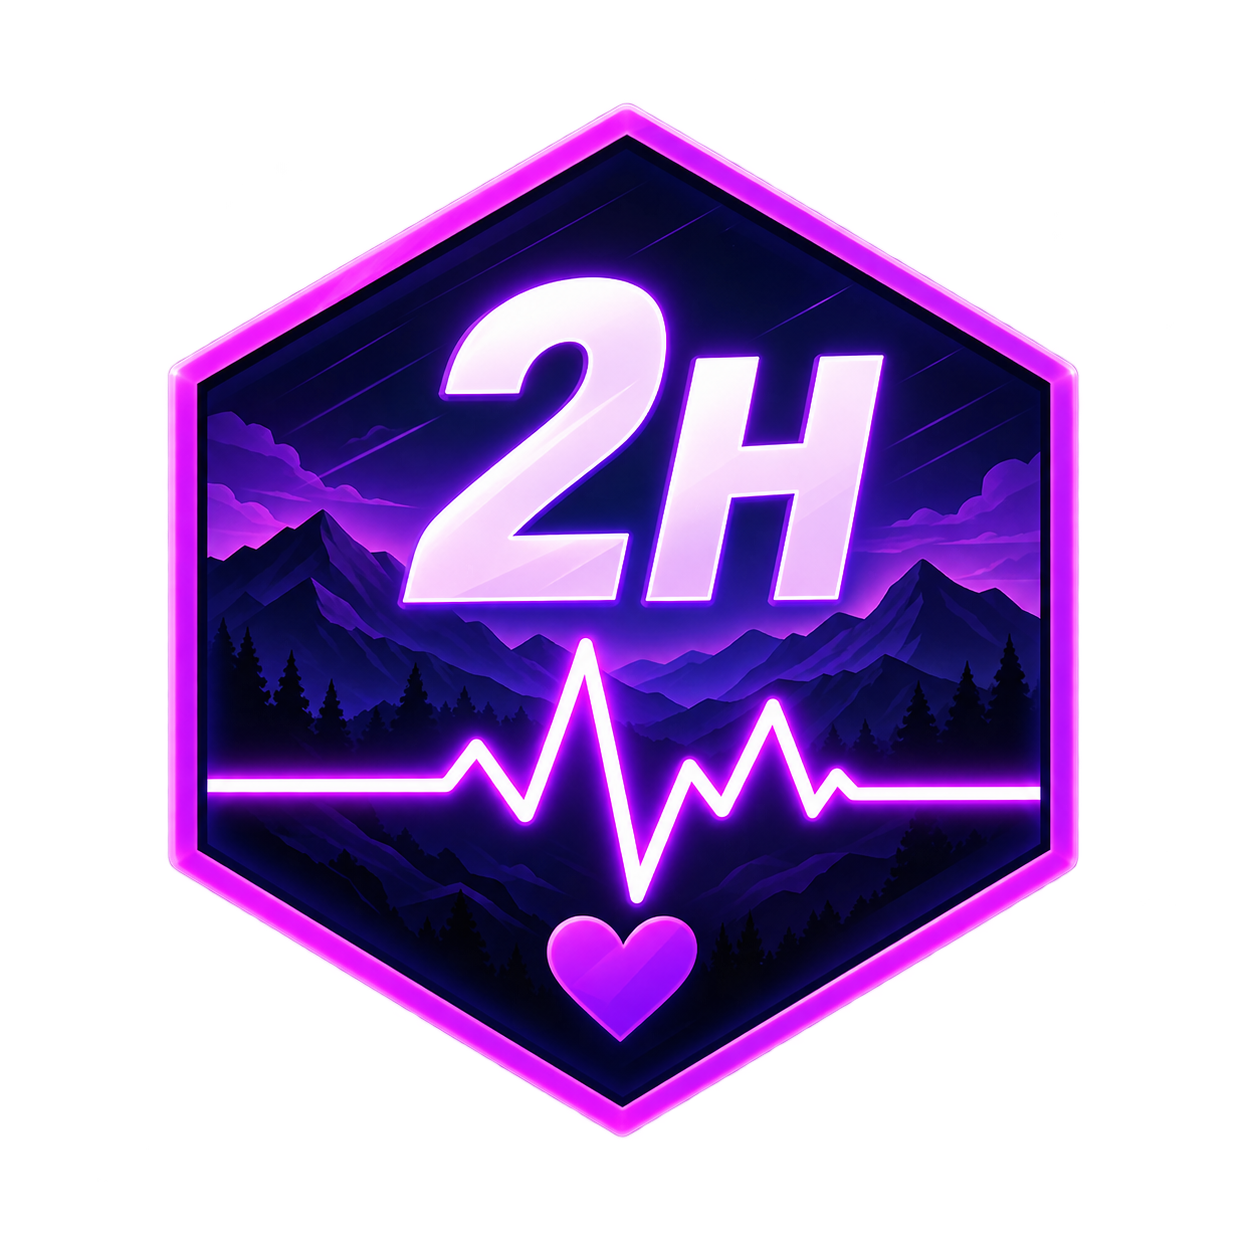
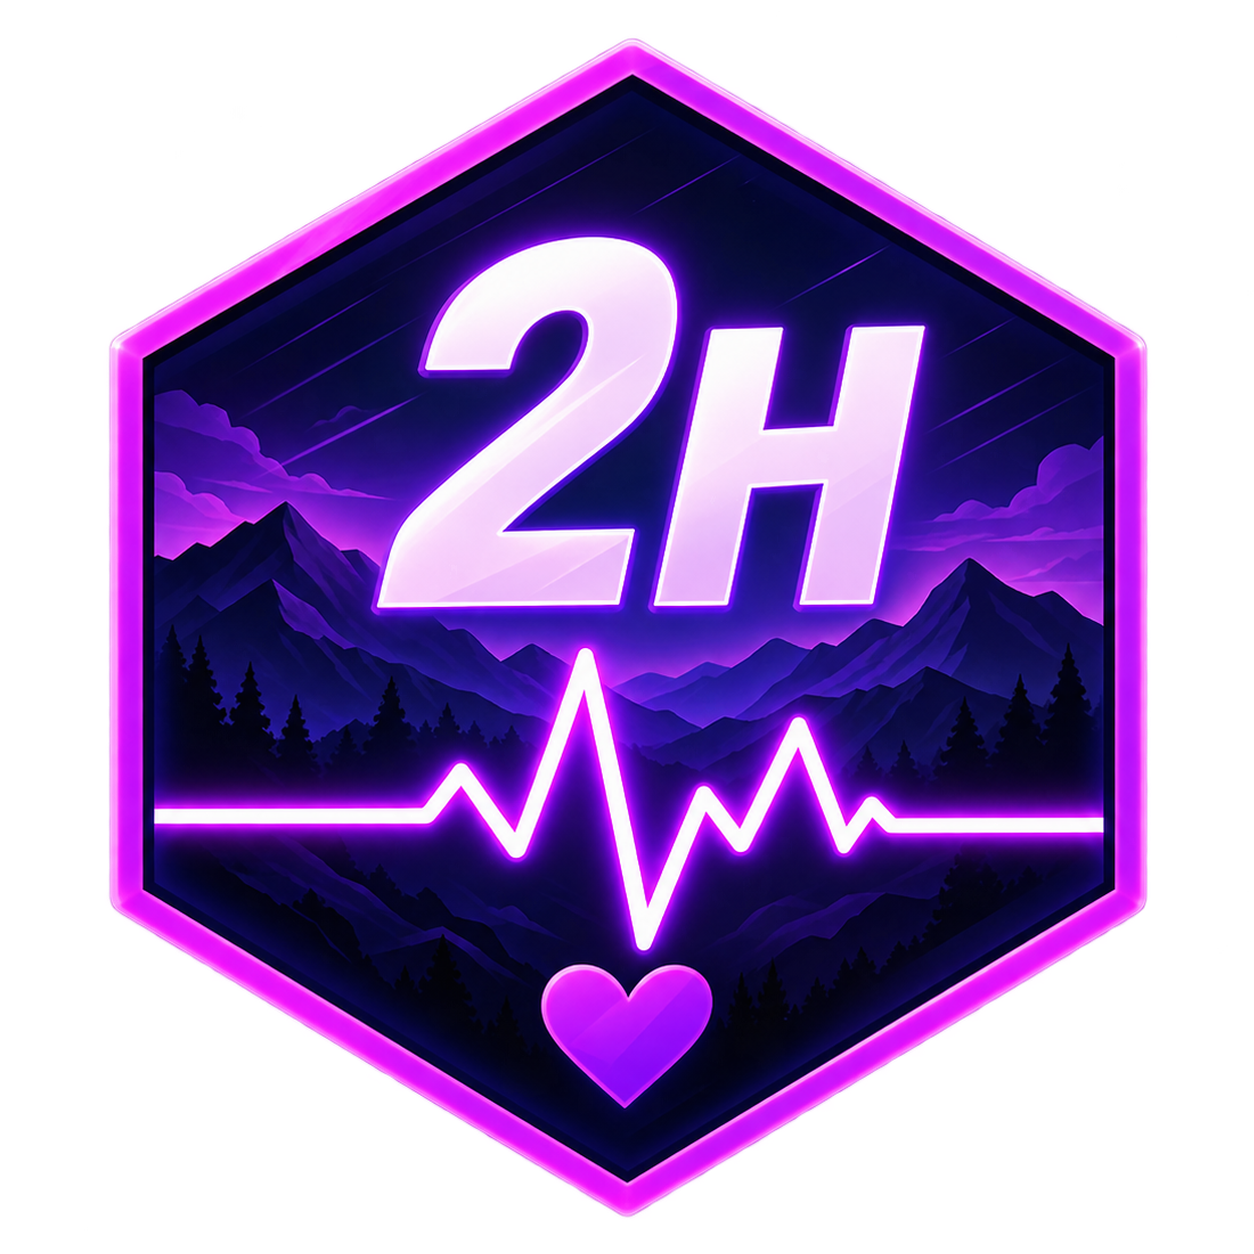
Recadrage des badges Durée 2H/3H à la même échelle que les autres défis
Claude-Session: https://claude.ai/code/session_01BZ88HeUfyCzw8SPn4Wq5hX

diff --git a/service-worker.js b/service-worker.js
@@ -9,7 +9,7 @@
 //   SKIP_WAITING, et recharge automatiquement dès que le nouveau prend le
 //   contrôle — les utilisateurs ont ainsi la nouvelle version sans refresh manuel.
 
-const CACHE_VERSION = 'speedix-V2-203';
+const CACHE_VERSION = 'speedix-V2-204';
 const STATIC_ASSETS = [
   '/',
   '/index.html',
